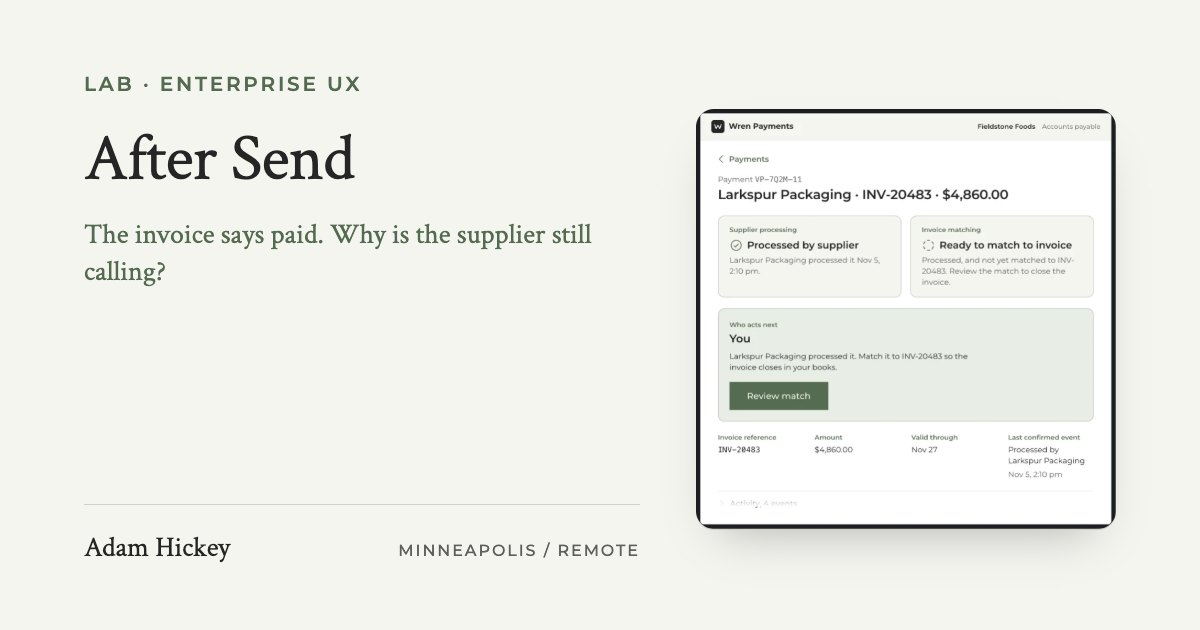
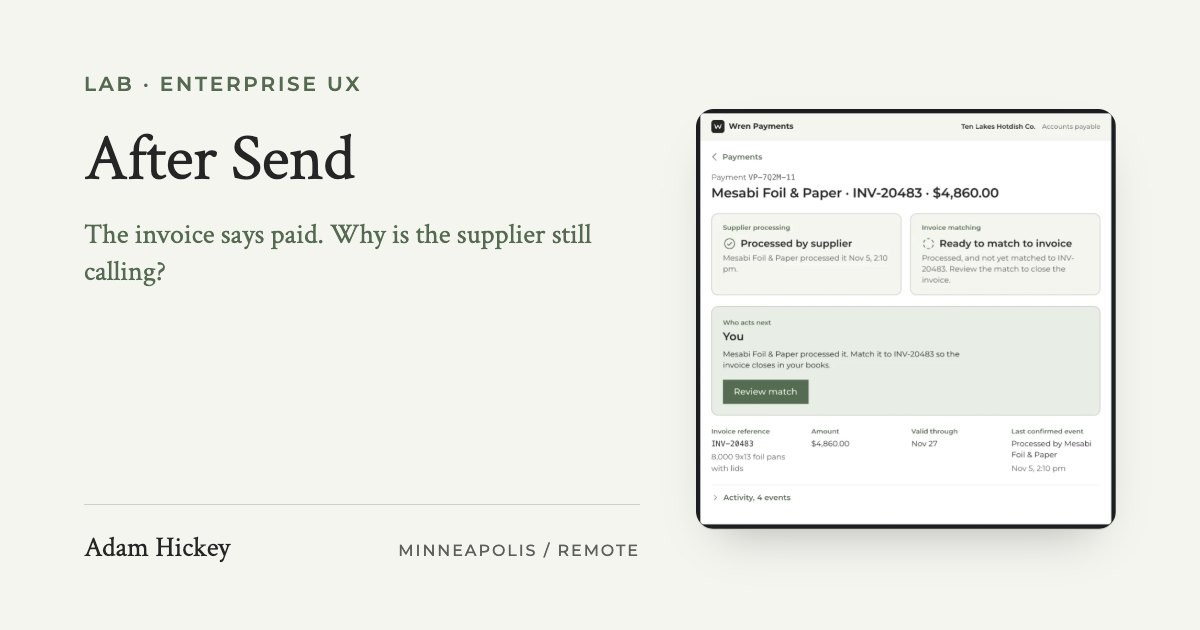
After Send: a Fridley hotdish maker, a Hibbing foil supplier, and 8,000 pans
The scenario read flat: Fieldstone Foods and Larkspur Packaging were
placeholders, and INV-20483 was $4,860 of nothing, so a reader had no
reason to care which side was right. Now Ten Lakes Hotdish Co., a frozen
hotdish maker in Fridley, owes Mesabi Foil & Paper, up in Hibbing, for
8,000 9x13 foil pans with lids, and the call says why it matters: the next
pallet ships Friday. The other four payments become the recipe (Valley Tot
Co., Sauk Centre Canning Co., Northshore Freight Lines, and a smaller pan
order), so the list reads as a hotdish being assembled without a joke
being written. Every company is still made up; each name was searched
before use.

The quirk is in the nouns. The three facts, the two records, the
decisions, and the test are the same words. One addition: each payment
carries `item`, what the invoice is for, shown under the reference on the
record and the notice.

Measured scoped on lab/after-send.html against origin/main with each
tree's own scripts: resting 3038 -> 3047, the item line on the nine loads
that draw a record's or the notice's grid (the two reviewing states hide
the grid, the list and the write-up's pair never draw it); state rules
376 either side, no stylesheet changed. readtime holds at 6 min (5.89).
wren-test.mjs passes, 31 assertions. The share card and its record
capture are re-rendered with the new names.

diff --git a/lab/after-send.html b/lab/after-send.html
@@ -19,7 +19,7 @@
   <meta property="og:url" content="https://adamhickey.com/lab/after-send.html" />
   <meta property="og:title" content="Tracking a Virtual Payment: an Accounts Payable Concept | Adam Hickey" />
   <meta property="og:description" content="An independent accounts payable concept on simulated data, not affiliated with any bank: the invoice says paid, the supplier calls anyway, and the payment record says what has happened, who acts next, and what to do." />
-  <meta property="og:image" content="https://adamhickey.com/img/og/after-send.jpg?v=5" />
+  <meta property="og:image" content="https://adamhickey.com/img/og/after-send.jpg?v=6" />
   <meta property="og:image:width" content="1200" />
   <meta property="og:image:height" content="630" />
   <meta name="twitter:card" content="summary_large_image" />
@@ -40,7 +40,7 @@
           "description": "An independent accounts payable concept on simulated data, not affiliated with any bank: the invoice says paid, the supplier calls anyway, and the payment record says what has happened, who acts next, and what to do.",
           "url": "https://adamhickey.com/lab/after-send.html",
           "mainEntityOfPage": "https://adamhickey.com/lab/after-send.html",
-          "image": "https://adamhickey.com/img/og/after-send.jpg?v=5",
+          "image": "https://adamhickey.com/img/og/after-send.jpg?v=6",
           "datePublished": "2026-11-06",
           "dateModified": "2026-11-07",
           "author": {
@@ -113,7 +113,7 @@
   <script src="../read-aloud.js?v=4" defer></script>
   <!-- The prototype. Deferred, no dependencies, no build step; the
        payments and their events are the objects at the top of the file. -->
-  <script src="wren.js?v=9" defer></script>
+  <script src="wren.js?v=10" defer></script>
   <script src="after-send-story.js?v=1" defer></script>
   <!-- One switch, thrown before first paint because after-send-story.js is
        deferred, and taken back at DOMContentLoaded if that file never ran:
@@ -273,13 +273,19 @@
          Since 2026-11-06 (Adam: use the empty right side) the three facts are
          the figure beside the scene: one word coming apart. The list is still
          a list, with the marks the prototype gives those statuses. Its lines
-         draw once (after-send-story.js); the words are always there. -->
+         draw once (after-send-story.js); the words are always there.
+         SINCE LATER ON 2026-11-07 (Adam: the scenario was boring) the buyer
+         is a Fridley hotdish maker and the supplier a Hibbing foil company,
+         and the invoice is for pans. The quirk is in the nouns and one clause
+         of the call (the next pallet ships Friday), so a reader has a reason
+         to care which side is right; the three facts and the two records are
+         the same words. -->
     <section class="case-section case-overview build-chapter ground-white" id="the-problem">
       <div class="container case-narrow">
         <div class="as-split">
           <div class="writing-measure">
-            <h2>Larkspur calls, and the screen settles one fact of three</h2>
-            <p>Thursday afternoon. Larkspur Packaging, the supplier, calls Fieldstone Foods, the buyer: <strong>&ldquo;Our records still show INV-20483 as unpaid. Can you check the payment?&rdquo;</strong> The specialist opens it. Sent October 28, marked paid.</p>
+            <h2>Mesabi calls, and the screen settles one fact of three</h2>
+            <p>Thursday afternoon in Fridley. Mesabi Foil &amp; Paper, the supplier up in Hibbing, calls Ten Lakes Hotdish Co., the buyer: <strong>&ldquo;Our records still show INV-20483 as unpaid, and your next pallet of pans ships Friday. Can you check the payment?&rdquo;</strong> The specialist opens it. Sent October 28, marked paid.</p>
             <p>&ldquo;Paid&rdquo; is standing in for three facts. I think <strong>the design problem is the hierarchy</strong>: keep them apart, say who moves next, and give the specialist a line for the phone.</p>
           </div>
           <figure class="as-paid">
@@ -289,9 +295,9 @@
             </div>
             <svg class="as-paid-lines" viewBox="0 0 48 100" preserveAspectRatio="none" aria-hidden="true" focusable="false"><path pathLength="1" d="M0 50C24 50 24 16.7 48 16.7"/><path pathLength="1" d="M0 50H48"/><path pathLength="1" d="M0 50C24 50 24 83.3 48 83.3"/></svg>
             <ul class="as-paid-facts">
-              <li><svg class="as-paid-mark" viewBox="0 0 256 256" fill="currentColor" aria-hidden="true" focusable="false"><path d="M173.66,98.34a8,8,0,0,1,0,11.32l-56,56a8,8,0,0,1-11.32,0l-24-24a8,8,0,0,1,11.32-11.32L112,148.69l50.34-50.35A8,8,0,0,1,173.66,98.34ZM232,128A104,104,0,1,1,128,24,104.11,104.11,0,0,1,232,128Zm-16,0a88,88,0,1,0-88,88A88.1,88.1,0,0,0,216,128Z"/></svg><span><strong>The card was issued.</strong> Larkspur got a virtual-card notice. The only fact the status shows.</span></li>
+              <li><svg class="as-paid-mark" viewBox="0 0 256 256" fill="currentColor" aria-hidden="true" focusable="false"><path d="M173.66,98.34a8,8,0,0,1,0,11.32l-56,56a8,8,0,0,1-11.32,0l-24-24a8,8,0,0,1,11.32-11.32L112,148.69l50.34-50.35A8,8,0,0,1,173.66,98.34ZM232,128A104,104,0,1,1,128,24,104.11,104.11,0,0,1,232,128Zm-16,0a88,88,0,1,0-88,88A88.1,88.1,0,0,0,216,128Z"/></svg><span><strong>The card was issued.</strong> Mesabi got a virtual-card notice. The only fact the status shows.</span></li>
               <li><svg class="as-paid-mark" viewBox="0 0 256 256" fill="currentColor" aria-hidden="true" focusable="false"><path d="M128,24A104,104,0,1,0,232,128,104.11,104.11,0,0,0,128,24Zm0,192a88,88,0,1,1,88-88A88.1,88.1,0,0,1,128,216Zm64-88a8,8,0,0,1-8,8H128a8,8,0,0,1-8-8V72a8,8,0,0,1,16,0v48h48A8,8,0,0,1,192,128Z"/></svg><span><strong>The supplier charged the card.</strong> Not yet. The product calls this processing, and no event says it happened.</span></li>
-              <li><svg class="as-paid-mark" viewBox="0 0 256 256" fill="currentColor" aria-hidden="true" focusable="false"><path d="M96.26,37.05A8,8,0,0,1,102,27.29a104.11,104.11,0,0,1,52,0,8,8,0,0,1-2,15.75,8.15,8.15,0,0,1-2-.26,88.09,88.09,0,0,0-44,0A8,8,0,0,1,96.26,37.05ZM53.79,55.14a104.05,104.05,0,0,0-26,45,8,8,0,0,0,15.42,4.27,88,88,0,0,1,22-38.09A8,8,0,0,0,53.79,55.14ZM43.21,151.55a8,8,0,1,0-15.42,4.28,104.12,104.12,0,0,0,26,45,8,8,0,0,0,11.41-11.22A88.14,88.14,0,0,1,43.21,151.55ZM150,213.22a88,88,0,0,1-44,0,8,8,0,1,0-4,15.49,104.11,104.11,0,0,0,52,0,8,8,0,0,0-4-15.49ZM222.65,146a8,8,0,0,0-9.85,5.58,87.91,87.91,0,0,1-22,38.08,8,8,0,1,0,11.42,11.21,104,104,0,0,0,26-45A8,8,0,0,0,222.65,146Zm-9.86-41.54a8,8,0,0,0,15.42-4.28,104,104,0,0,0-26-45,8,8,0,1,0-11.41,11.22A88,88,0,0,1,212.79,104.45Z"/></svg><span><strong>The buyer matched the charge to the invoice.</strong> Not yet, in Fieldstone&rsquo;s books, so INV-20483 is still open.</span></li>
+              <li><svg class="as-paid-mark" viewBox="0 0 256 256" fill="currentColor" aria-hidden="true" focusable="false"><path d="M96.26,37.05A8,8,0,0,1,102,27.29a104.11,104.11,0,0,1,52,0,8,8,0,0,1-2,15.75,8.15,8.15,0,0,1-2-.26,88.09,88.09,0,0,0-44,0A8,8,0,0,1,96.26,37.05ZM53.79,55.14a104.05,104.05,0,0,0-26,45,8,8,0,0,0,15.42,4.27,88,88,0,0,1,22-38.09A8,8,0,0,0,53.79,55.14ZM43.21,151.55a8,8,0,1,0-15.42,4.28,104.12,104.12,0,0,0,26,45,8,8,0,0,0,11.41-11.22A88.14,88.14,0,0,1,43.21,151.55ZM150,213.22a88,88,0,0,1-44,0,8,8,0,1,0-4,15.49,104.11,104.11,0,0,0,52,0,8,8,0,0,0-4-15.49ZM222.65,146a8,8,0,0,0-9.85,5.58,87.91,87.91,0,0,1-22,38.08,8,8,0,1,0,11.42,11.21,104,104,0,0,0,26-45A8,8,0,0,0,222.65,146Zm-9.86-41.54a8,8,0,0,0,15.42-4.28,104,104,0,0,0-26-45,8,8,0,1,0-11.41,11.22A88,88,0,0,1,212.79,104.45Z"/></svg><span><strong>The buyer matched the charge to the invoice.</strong> Not yet, in Ten Lakes&rsquo; books, so INV-20483 is still open.</span></li>
             </ul>
           </figure>
         </div>
@@ -319,7 +325,7 @@
               <div class="as-how-text">
                 <p class="as-how-who">Supplier</p>
                 <p class="as-how-name">Sends the invoice</p>
-                <p class="as-how-what"><span class="as-how-ref">INV-20483</span>, for $4,860.</p>
+                <p class="as-how-what"><span class="as-how-ref">INV-20483</span>, $4,860 for 8,000 foil pans with lids.</p>
               </div>
             </li>
             <li class="as-how-step as-how-step--buyer">
@@ -383,15 +389,15 @@
           <li data-wren-step="5"><span class="as-step-n" aria-hidden="true">5</span><span class="as-step-name">Explore an expired payment</span><span class="visually-hidden" data-step-said></span></li>
         </ol>
         <div class="as-guide" data-wren-guide>
-          <p class="as-view" data-wren-view>Demo view: Fieldstone Foods, the buyer</p>
-          <p class="as-hint" data-wren-hint>Larkspur Packaging, the supplier, calls: &ldquo;Our records show <span class="as-ref">INV-20483</span> as unpaid. Can you check it?&rdquo; Your screen says paid.</p>
+          <p class="as-view" data-wren-view>Demo view: Ten Lakes Hotdish Co., the buyer</p>
+          <p class="as-hint" data-wren-hint>Mesabi Foil &amp; Paper, the supplier, calls: &ldquo;Our records show <span class="as-ref">INV-20483</span> as unpaid. Can you check it?&rdquo; Your screen says paid.</p>
           <span class="as-guide-next" data-wren-next></span>
         </div>
         <div class="wr-frame">
           <div class="wr-app">
             <div class="wr-bar">
               <p class="wr-brand"><svg class="wr-brand-icon" viewBox="0 0 32 32" aria-hidden="true" focusable="false"><rect width="32" height="32" rx="7"/><path d="M8 11l3.5 10 4.5-8 4.5 8L24 11"/></svg>Wren Payments</p>
-              <p class="wr-chrome" data-wren-chrome><span class="wr-org">Fieldstone Foods</span><span class="wr-role">Accounts payable</span></p>
+              <p class="wr-chrome" data-wren-chrome><span class="wr-org">Ten Lakes Hotdish Co.</span><span class="wr-role">Accounts payable</span></p>
             </div>
             <div class="wr-stage" data-wren-stage data-screen="list">
               <noscript>
@@ -405,7 +411,7 @@
             <p class="visually-hidden" role="status" data-wren-status></p>
           </div>
         </div>
-        <p class="as-demo-note">Simulated: &ldquo;Process this payment&rdquo; charges nothing. Fieldstone Foods is the buyer, Larkspur Packaging the supplier, and both are made up.</p>
+        <p class="as-demo-note">Simulated: &ldquo;Process this payment&rdquo; charges nothing. Ten Lakes Hotdish Co. is the buyer, Mesabi Foil &amp; Paper the supplier, and both are made up.</p>
       </div>
     </section>
 
@@ -549,7 +555,7 @@
       <div class="container case-narrow">
         <div class="writing-measure">
           <h2>From a log to an answer, and why that order is worth testing</h2>
-          <p>Larkspur is on the phone. Both records come from the same events; v2 adds the matching status, who acts next, and what to say. Answer from each.</p>
+          <p>Mesabi is on the phone. Both records come from the same events; v2 adds the matching status, who acts next, and what to say. Answer from each.</p>
         </div>
         <div class="as-wires">
           <figure class="as-figure as-wire">
@@ -560,7 +566,7 @@
                 <span class="as-wire-label">Activity</span>
                 <ol class="as-wire-events">
                   <li><time>Oct 28, 9:14 am</time><span>Payment issued</span></li>
-                  <li><time>Oct 28, 9:15 am</time><span>Notice sent to ar@larkspur.example</span></li>
+                  <li><time>Oct 28, 9:15 am</time><span>Notice sent to ar@mesabifoil.example</span></li>
                   <li><time>Oct 28, 9:16 am</time><span>Notice delivered</span></li>
                 </ol>
               </div>
@@ -582,22 +588,22 @@
           <figure class="as-figure as-wire as-wire--proposed">
             <figcaption><p class="as-kicker">v2 &middot; status first, the working direction</p><p class="as-title">The record as an answer</p></figcaption>
             <div class="as-wire-screen">
-              <div class="as-wire-bar">Larkspur Packaging &middot; INV-20483 &middot; $4,860.00</div>
+              <div class="as-wire-bar">Mesabi Foil &amp; Paper &middot; INV-20483 &middot; $4,860.00</div>
               <div class="as-wire-row as-wire-row--facts">
                 <span class="as-wire-cell as-wire-cell--fact"><span class="as-wire-label">Supplier processing</span>Not processed yet</span>
                 <span class="as-wire-cell as-wire-cell--fact"><span class="as-wire-label">Invoice matching</span>Not yet</span>
               </div>
               <div class="as-wire-block as-wire-block--next">
                 <span class="as-wire-label">Who acts next</span>
-                <span class="as-wire-who">Larkspur Packaging</span>
-                <span>Tell them: the card hasn&rsquo;t been charged. Notice went to ar@larkspur.example. Later: follow up Nov 20 if it&rsquo;s still unprocessed. The card expires Nov 27.</span>
+                <span class="as-wire-who">Mesabi Foil &amp; Paper</span>
+                <span>Tell them: the card hasn&rsquo;t been charged. Notice went to ar@mesabifoil.example. Later: follow up Nov 20 if it&rsquo;s still unprocessed. The card expires Nov 27.</span>
               </div>
             </div>
             <div class="as-answers-slot">
               <button type="button" class="btn btn-ghost-light as-show" data-show-answers>See its answers</button>
               <dl class="as-answers">
               <div><dt>Has the supplier charged the card?</dt><dd>No charge posted as of Nov 5, 2:05 pm, when the record last read the events.</dd></div>
-              <div><dt>What do I tell them?</dt><dd>The card hasn&rsquo;t been charged. The notice went to ar@larkspur.example; is that the right inbox?</dd></div>
+              <div><dt>What do I tell them?</dt><dd>The card hasn&rsquo;t been charged. The notice went to ar@mesabifoil.example; is that the right inbox?</dd></div>
               <div><dt>Do I follow up?</dt><dd>Not yet. On Nov 20, if it&rsquo;s still unprocessed.</dd></div>
             </dl>
             </div>

diff --git a/lab/wren.js b/lab/wren.js
@@ -4,9 +4,13 @@
    else, where it runs under the hero.
 
    EVERYTHING HERE IS SIMULATED, and the page says so before anyone presses.
-   Wren Payments is a made-up product, Fieldstone Foods a made-up buyer,
-   Larkspur Packaging a made-up supplier, and every reference below is
-   synthetic. No card number, no account, no network, no file, no sign-in.
+   Wren Payments is a made-up product, Ten Lakes Hotdish Co. a made-up buyer,
+   Mesabi Foil & Paper a made-up supplier, and every reference below is
+   synthetic. Since 2026-11-07 (Adam: the scenario was boring) the buyer
+   makes frozen hotdish in Fridley and the supplier sells it foil pans from
+   Hibbing, so the list reads as the recipe: tots, soup, pans, and the
+   freight. The quirk lives in the nouns and the item line of each invoice;
+   the events, the statuses, and the words of the story did not move. No card number, no account, no network, no file, no sign-in.
    "Process this payment" charges nothing; it adds an event to a list in
    this file. The public sources the page cites establish the domain
    (buyer-to-supplier virtual payments, remittance, reconciliation); the
@@ -72,47 +76,49 @@
 
   var TODAY = 'Nov 5';               /* the demo's clock, fixed */
   var PRODUCT = 'Wren Payments';
-  var BUYER = { name: 'Fieldstone Foods', team: 'Accounts payable' };
+  var BUYER = { name: 'Ten Lakes Hotdish Co.', team: 'Accounts payable' };
 
   /* The one payment the walkthrough follows, and four more so the list can
-     be searched and filtered. Amounts in cents, so nothing is rounded. */
+     be searched and filtered. Amounts in cents, so nothing is rounded. `item`
+     is what the invoice is for, in the supplier's words, shown under the
+     reference on the record and the notice. */
   var BASE = [
-    { id: 'larkspur-20483', ref: 'VP-7Q2M-11', supplier: 'Larkspur Packaging', invoice: 'INV-20483', amount: 486000, sent: 'Oct 28', validThrough: 'Nov 27', followUp: 'Nov 20', noticeTo: 'ar@larkspur.example',
+    { id: 'mesabi-20483', ref: 'VP-7Q2M-11', supplier: 'Mesabi Foil & Paper', invoice: 'INV-20483', item: '8,000 9x13 foil pans with lids', amount: 486000, sent: 'Oct 28', validThrough: 'Nov 27', followUp: 'Nov 20', noticeTo: 'ar@mesabifoil.example',
       events: [
         { at: 'Oct 28, 9:14 am', kind: 'issued', what: 'Payment issued for INV-20483', by: BUYER.name + ' accounts payable' },
-        { at: 'Oct 28, 9:15 am', kind: 'notice', what: 'Payment notice sent to Larkspur Packaging', by: PRODUCT },
-        { at: 'Oct 28, 9:16 am', kind: 'delivered', what: 'Notice delivered to Larkspur’s accounts receivable inbox', by: PRODUCT }
+        { at: 'Oct 28, 9:15 am', kind: 'notice', what: 'Payment notice sent to Mesabi Foil & Paper', by: PRODUCT },
+        { at: 'Oct 28, 9:16 am', kind: 'delivered', what: 'Notice delivered to Mesabi’s accounts receivable inbox', by: PRODUCT }
       ] },
-    { id: 'cedar-11920', ref: 'VP-3H8K-02', supplier: 'Cedar Ridge Produce', invoice: 'INV-11920', amount: 221550, sent: 'Oct 22', validThrough: 'Nov 21',
+    { id: 'valleytot-11920', ref: 'VP-3H8K-02', supplier: 'Valley Tot Co.', invoice: 'INV-11920', item: '1,500 lb frozen tots', amount: 221550, sent: 'Oct 22', validThrough: 'Nov 21',
       events: [
         { at: 'Oct 22, 10:02 am', kind: 'issued', what: 'Payment issued for INV-11920', by: BUYER.name + ' accounts payable' },
-        { at: 'Oct 22, 10:03 am', kind: 'notice', what: 'Payment notice sent to Cedar Ridge Produce', by: PRODUCT },
-        { at: 'Oct 24, 8:40 am', kind: 'processed', what: 'Processed by Cedar Ridge Produce', by: 'Cedar Ridge Produce' },
+        { at: 'Oct 22, 10:03 am', kind: 'notice', what: 'Payment notice sent to Valley Tot Co.', by: PRODUCT },
+        { at: 'Oct 24, 8:40 am', kind: 'processed', what: 'Processed by Valley Tot Co.', by: 'Valley Tot Co.' },
         { at: 'Oct 24, 1:15 pm', kind: 'matched', what: 'Matched to INV-11920', by: BUYER.name + ' accounts payable' }
       ] },
-    { id: 'bright-30077', ref: 'VP-9C4D-07', supplier: 'Bright Harbor Logistics', invoice: 'INV-30077', amount: 1240000, processedAmount: 1204000, sent: 'Oct 30', validThrough: 'Nov 29',
+    { id: 'northshore-30077', ref: 'VP-9C4D-07', supplier: 'Northshore Freight Lines', invoice: 'INV-30077', item: 'Freezer runs, Fridley to Fargo and Des Moines, October', amount: 1240000, processedAmount: 1204000, sent: 'Oct 30', validThrough: 'Nov 29',
       events: [
         { at: 'Oct 30, 3:48 pm', kind: 'issued', what: 'Payment issued for INV-30077', by: BUYER.name + ' accounts payable' },
-        { at: 'Oct 30, 3:49 pm', kind: 'notice', what: 'Payment notice sent to Bright Harbor Logistics', by: PRODUCT },
-        { at: 'Nov 3, 11:20 am', kind: 'processed', what: 'Processed by Bright Harbor Logistics', by: 'Bright Harbor Logistics' }
+        { at: 'Oct 30, 3:49 pm', kind: 'notice', what: 'Payment notice sent to Northshore Freight Lines', by: PRODUCT },
+        { at: 'Nov 3, 11:20 am', kind: 'processed', what: 'Processed by Northshore Freight Lines', by: 'Northshore Freight Lines' }
       ] },
-    { id: 'tamsin-0921', ref: 'VP-5N1R-04', supplier: 'Tamsin Office Supply', invoice: 'INV-0921', amount: 31875, sent: 'Sep 30', validThrough: 'Oct 30',
+    { id: 'saukcentre-0921', ref: 'VP-5N1R-04', supplier: 'Sauk Centre Canning Co.', invoice: 'INV-0921', item: '25 cases cream of mushroom soup', amount: 31875, sent: 'Sep 30', validThrough: 'Oct 30',
       events: [
         { at: 'Sep 30, 2:05 pm', kind: 'issued', what: 'Payment issued for INV-0921', by: BUYER.name + ' accounts payable' },
-        { at: 'Sep 30, 2:06 pm', kind: 'notice', what: 'Payment notice sent to Tamsin Office Supply', by: PRODUCT },
+        { at: 'Sep 30, 2:06 pm', kind: 'notice', what: 'Payment notice sent to Sauk Centre Canning Co.', by: PRODUCT },
         { at: 'Oct 31, 12:00 am', kind: 'expired', what: 'Validity date passed. The payment expired without being processed.', by: PRODUCT }
       ] },
-    { id: 'larkspur-20391', ref: 'VP-2W6T-09', supplier: 'Larkspur Packaging', invoice: 'INV-20391', amount: 114000, sent: 'Oct 9', validThrough: 'Nov 8',
+    { id: 'mesabi-20391', ref: 'VP-2W6T-09', supplier: 'Mesabi Foil & Paper', invoice: 'INV-20391', item: '3,000 half-size foil pans', amount: 114000, sent: 'Oct 9', validThrough: 'Nov 8',
       events: [
         { at: 'Oct 9, 9:30 am', kind: 'issued', what: 'Payment issued for INV-20391', by: BUYER.name + ' accounts payable' },
-        { at: 'Oct 9, 9:31 am', kind: 'notice', what: 'Payment notice sent to Larkspur Packaging', by: PRODUCT },
-        { at: 'Oct 12, 4:12 pm', kind: 'processed', what: 'Processed by Larkspur Packaging', by: 'Larkspur Packaging' },
+        { at: 'Oct 9, 9:31 am', kind: 'notice', what: 'Payment notice sent to Mesabi Foil & Paper', by: PRODUCT },
+        { at: 'Oct 12, 4:12 pm', kind: 'processed', what: 'Processed by Mesabi Foil & Paper', by: 'Mesabi Foil & Paper' },
         { at: 'Oct 13, 9:05 am', kind: 'matched', what: 'Matched to INV-20391', by: BUYER.name + ' accounts payable' }
       ] }
   ];
-  var FOLLOWED = 'larkspur-20483';
+  var FOLLOWED = 'mesabi-20483';
   var SEARCHED = 'INV-20483';        /* what the supplier on the phone gave */
-  var HINT_START = 'Larkspur Packaging, the supplier, calls: “Our records show INV-20483 as unpaid. Can you check it?” Your screen says paid.';
+  var HINT_START = 'Mesabi Foil & Paper, the supplier, calls: “Our records show INV-20483 as unpaid. Can you check it?” Your screen says paid.';
 
   /* The exception: the same payment, its validity date a day before the
      demo's today, and no processing event ever arrived. */
@@ -318,7 +324,7 @@
        the same reference and amount, so the row steps aside while it is open
        and the buttons stay inside the window. */
     if (!(state.reviewing && pr === 'processed' && m === 'unmatched')) s += '<dl class="wr-grid">' +
-      '<div><dt>Invoice reference</dt><dd><span class="wr-ref">' + p.invoice + '</span></dd></div>' +
+      '<div><dt>Invoice reference</dt><dd><span class="wr-ref">' + p.invoice + '</span><span class="wr-when">' + esc(p.item) + '</span></dd></div>' +
       '<div><dt>Amount</dt><dd>' + money(p.amount) + '</dd></div>' +
       '<div><dt>Valid through</dt><dd>' + validThrough(p) + (pr === 'expired' ? ' <span class="wr-muted">(passed)</span>' : '') + '</dd></div>' +
       '<div><dt>Last confirmed event</dt><dd>' + esc(lastEv.what) + '<span class="wr-when">' + lastEv.at + '</span></dd></div>' +
@@ -454,7 +460,7 @@
       '</header>' +
       '<dl class="wr-grid wr-grid--notice">' +
         '<div><dt>From</dt><dd>' + BUYER.name + '</dd></div>' +
-        '<div><dt>Invoice reference</dt><dd><span class="wr-ref">' + p.invoice + '</span></dd></div>' +
+        '<div><dt>Invoice reference</dt><dd><span class="wr-ref">' + p.invoice + '</span><span class="wr-when">' + esc(p.item) + '</span></dd></div>' +
         '<div><dt>Amount</dt><dd>' + money(p.amount) + '</dd></div>' +
         '<div><dt>Valid through</dt><dd>' + validThrough(p) + '</dd></div>' +
         '<div><dt>Payment reference</dt><dd><span class="wr-ref">' + p.ref + '</span></dd></div>' +
@@ -499,7 +505,7 @@
     var other = state.screen !== 'list' && state.open && state.open !== FOLLOWED;
     var otherLine = 'Another payment on the list. The story follows ' + SEARCHED + '.';
     var otherNext = TO_FOLLOWED;
-    if (other && state.open === 'bright-30077') {
+    if (other && state.open === 'northshore-30077') {
       otherLine = state.reviewing
         ? 'The two amounts don’t agree, so there’s no Confirm match. The story follows ' + SEARCHED + '.'
         : 'Processed for less than the invoice. Review the match to see the check hold.';
@@ -514,7 +520,7 @@
         'An alternate ending, not what came next: the same card, expiring Nov 4 instead of Nov 27, never charged. Your move.' };
     }
     if (m === 'matched') {
-      return { now: 5, done: 4, next: other ? otherNext : TO_EXPIRED, hint: other ? otherLine : SEARCHED + ' is closed, and each fact has its own date. Last, a different ending: what if Larkspur never charges the card?' };
+      return { now: 5, done: 4, next: other ? otherNext : TO_EXPIRED, hint: other ? otherLine : SEARCHED + ' is closed, and each fact has its own date. Last, a different ending: what if Mesabi never charges the card?' };
     }
     /* On the list, the search comes first: the row is offered once it is the
        one row showing, and searched for if it is among others or gone. */
@@ -522,13 +528,13 @@
     var onList = rows.length === 1 && rows[0].id === FOLLOWED ? TO_OPEN : TO_SEARCH;
     if (pr === 'processed') {
       if (other) return { now: 4, done: 3, next: otherNext, hint: otherLine };
-      if (state.screen === 'notice') return { now: 3, done: 2, next: TO_BUYER, hint: 'Processed: the card is charged. That’s all Larkspur has to do, so back to the buyer’s record of the same payment.' };
+      if (state.screen === 'notice') return { now: 3, done: 2, next: TO_BUYER, hint: 'Processed: the card is charged. That’s all Mesabi has to do, so back to the buyer’s record of the same payment.' };
       if (state.screen === 'list') return { now: 4, done: 3, next: onList, hint: 'Find ' + SEARCHED + ' again to close the loop.' };
-      return { now: 4, done: 3, next: state.reviewing ? TO_CONFIRM : TO_REVIEW, hint: state.reviewing ? 'The invoice and the payment, side by side. The supplier and the amount agree.' : 'You’re Fieldstone again. Larkspur charged the card, so the record reads processed and ready to match. Close the invoice.' };
+      return { now: 4, done: 3, next: state.reviewing ? TO_CONFIRM : TO_REVIEW, hint: state.reviewing ? 'The invoice and the payment, side by side. The supplier and the amount agree.' : 'You’re Ten Lakes again. Mesabi charged the card, so the record reads processed and ready to match. Close the invoice.' };
     }
     if (other) return { now: 1, done: 0, next: otherNext, hint: otherLine };
-    if (state.screen === 'notice') return { now: 3, done: 2, next: TO_PROCESS, hint: 'Now you’re Larkspur, the supplier. The notice shows only what Fieldstone shared, and one thing to do: charge the card.' };
-    if (state.screen === 'detail') return { now: 2, done: 1, next: TO_SUPPLIER, hint: 'Issued, not charged. The record says what to tell Larkspur now, what to do later, and that Larkspur acts next.' };
+    if (state.screen === 'notice') return { now: 3, done: 2, next: TO_PROCESS, hint: 'Now you’re Mesabi, the supplier. The notice shows only what Ten Lakes shared, and one thing to do: charge the card.' };
+    if (state.screen === 'detail') return { now: 2, done: 1, next: TO_SUPPLIER, hint: 'Issued, not charged. The record says what to tell Mesabi now, what to do later, and that Mesabi acts next.' };
     return { now: 1, done: 0, next: onList, hint: onList === TO_OPEN
       ? 'One payment, and the list says it isn’t processed yet. Open it to see where it stands.'
       : HINT_START };
@@ -726,7 +732,7 @@
       state = fresh('expired');
       state.open = FOLLOWED;
       state.screen = 'detail';
-      render({ focus: '.wr-title', announce: 'An alternate ending. The same payment to Larkspur Packaging, its card expired Nov 4 with no charge.' });
+      render({ focus: '.wr-title', announce: 'An alternate ending. The same payment to Mesabi Foil & Paper, its card expired Nov 4 with no charge.' });
       return;
     }
     if (t.hasAttribute('data-role')) {

diff --git a/index.html b/index.html
@@ -1094,7 +1094,7 @@
           <div class="case-card case-card--lab reveal">
             <a class="case-thumb case-thumb--still" href="lab/after-send.html" aria-label="Read the After Send case study: the invoice says paid, and the supplier is still calling">
               <div class="explore-still explore-still--handoff">
-                <p class="handoff-record"><span>INV-20483<span class="handoff-supplier"> &middot; Larkspur Packaging</span></span><span class="handoff-paid">Marked paid</span></p>
+                <p class="handoff-record"><span>INV-20483<span class="handoff-supplier"> &middot; Mesabi Foil &amp; Paper</span></span><span class="handoff-paid">Marked paid</span></p>
                 <p class="explore-still-title">&ldquo;Paid&rdquo; hides three facts. <span class="explore-still-ask">Next: confirm the supplier got the notice.</span></p>
                 <ol class="handoff-rail">
                   <li class="handoff-step--done">

diff --git a/lab/index.html b/lab/index.html
@@ -279,7 +279,7 @@
           <li class="writing-item">
             <a class="writing-link" href="after-send.html">
               <div class="explore-still explore-still--handoff writing-card" aria-hidden="true">
-                <p class="handoff-record"><span>INV-20483<span class="handoff-supplier"> &middot; Larkspur Packaging</span></span><span class="handoff-paid">Marked paid</span></p>
+                <p class="handoff-record"><span>INV-20483<span class="handoff-supplier"> &middot; Mesabi Foil &amp; Paper</span></span><span class="handoff-paid">Marked paid</span></p>
                 <p class="explore-still-title">&ldquo;Paid&rdquo; hides three facts. <span class="explore-still-ask">Next: confirm the supplier got the notice.</span></p>
                 <ol class="handoff-rail">
                   <li class="handoff-step--done">

diff --git a/README.md b/README.md
@@ -131,7 +131,7 @@ the archive so that it holds everything staging ever had.
 | `case-study/service-map.css` | The USDA case study's service map, moved out of the old base stylesheet |
 | `how-i-work.html`, `engagement/*.html` | How I work, one page since 2026-10-29: the four parts of the job, each the situation, the moves, and the account that shows it. The four pages it replaced under `engagement/` are forwarding notes now, each to its own section |
 | `prototype/dispatch-cockpit.html`, `prototype/dispatch-cockpit.{css,js}` | The dispatch cockpit prototype: a self-directed, interactive page on synthetic data, with its own stylesheet and script and the fleet as one object at the top of the script. `scripts/cockpit.mjs` captures the first screen for the share card, and `scripts/cockpit-shots.mjs` the four remaining stills: the hero's close call, the two frames decision 02 sits beside, and the wide window the HOMEPAGE's prototype card prints. The page has one other mode: `?embed` hands the document `data-embed` and the stylesheet takes off the nav, the hero, the two chapters, and the footer, leaving the cockpit and its own device chrome off with them. That is what stands in the tablet the homepage card opens, and it is a flag on this page rather than a second bare file so there is one copy of the cockpit's markup, one address in the sitemap, and no public URL with no way back to the site |
-| `lab/wren.{css,js}` | The After Send prototype, in its write-up under the hero since 2026-11-06: one virtual payment at a desk's width, followed from a buyer's payments list to a payment record, to the supplier's notice, and back to the same record, on simulated data written at the top of the script. Wren Payments is the made-up product, Fieldstone Foods the made-up buyer, Larkspur Packaging the made-up supplier, and every reference is synthetic. Supplier processing and invoice matching are two fields derived from one list of events, so the buyer's record and the supplier's notice cannot disagree; Process and Confirm match are drawn only while they apply, and a match never touches the processing event. Every screen after the list is drawn on a press, so `scripts/lib/reachable.mjs` registers eleven states for it, and a twelfth for the two records' answers in the write-up; `scripts/wren-test.mjs` walks the handoff, asserting what each screen says; and `scripts/wren-shots.mjs` takes its record screen for the share card. The lab and homepage card is the page's own markup, in `thumb-loop.css` ("The handoff"), since later on 2026-11-06. No card number, account, network, file, or sign-in |
+| `lab/wren.{css,js}` | The After Send prototype, in its write-up under the hero since 2026-11-06: one virtual payment at a desk's width, followed from a buyer's payments list to a payment record, to the supplier's notice, and back to the same record, on simulated data written at the top of the script. Wren Payments is the made-up product, Ten Lakes Hotdish Co. the made-up buyer (a frozen hotdish maker in Fridley), Mesabi Foil & Paper the made-up supplier (its foil pans, from Hibbing), and every reference is synthetic; since 2026-11-07 every row on the list is a Minnesota noun, so the list reads as the recipe and a reader knows what the money is for. Supplier processing and invoice matching are two fields derived from one list of events, so the buyer's record and the supplier's notice cannot disagree; Process and Confirm match are drawn only while they apply, and a match never touches the processing event. Every screen after the list is drawn on a press, so `scripts/lib/reachable.mjs` registers eleven states for it, and a twelfth for the two records' answers in the write-up; `scripts/wren-test.mjs` walks the handoff, asserting what each screen says; and `scripts/wren-shots.mjs` takes its record screen for the share card. The lab and homepage card is the page's own markup, in `thumb-loop.css` ("The handoff"), since later on 2026-11-06. No card number, account, network, file, or sign-in |
 | `lab/after-send.html`, `lab/after-send.css` | After Send, since 2026-11-06: the question and four facts, the call in the supplier's own words with the three facts "paid" stands in for, the payment flow with the virtual card explained, the prototype at the container's width with a five-step rail, a Demo view line, and the demo's controls outside the window, three decisions as The Shortlist's ledger (decisions.css) with the reason behind each and a line drawing of it and three in support as a list, the experience architecture drawn in HTML (four screens, the invoice reference under each, the two events marked where they happen, and where each screen can fail), the same events as two records in real words (v1 a log, v2 a summary with next-step guidance) with the risk, the proposed study, and that there are no findings, a reference note on three public sources, and a close. The order and the opening are the review of 2026-11-07: a reader had to understand payments before the design problem showed, so the headline is the supplier's call, the dek says the card was issued and not charged, the call comes before the flow and the prototype, and the record answers the call before it schedules the follow-up. Until the second pass of 2026-11-06 the page also carried a six-lane service map, the states as static markup, a design-to-build check table, and the research plan in three columns; that pass took the figures, not the running text, which was already under budget. Independent and simulated, and the first screen says so |
 | `lab/aisle.{css,js}`, `prototype/aisle.html` | The Shortlist prototype, in the write-up's hero since 2026-10-29: one shopping trip at a phone's width, from a photo of a friend's lamp to a store aisle and a hand-off to a person, on sample data written at the top of the script. Shortlist is the feature's name in the app of the made-up store, Marigold Home. What the shopper liked about the lamp is asked once and carried through every later screen, and every screen is written from what the shopper did. No image search, inventory system, or model is connected, and the page says so in its first screen. Every screen after the first is drawn on a press, so `scripts/lib/reachable.mjs` registers fourteen states for it, and `scripts/aisle-test.mjs` walks every branch and asserts what each screen says. `scripts/aisle-shots.mjs` takes its screens for the lab index and the share card. It had a page of its own for a day; `prototype/aisle.html` is a forwarding note to the write-up now, which no check measures and `seo.mjs` holds to a noindex, a canonical, and a place outside the sitemap. An independent concept: the store is made up, and no retailer's name, mark, or colors appear |
 | `lab/inspiration-to-aisle.html`, `lab/inspiration-to-aisle.css`, `lab/inspiration-to-aisle.js` | The Shortlist, one page since 2026-10-29: the question and four facts, with the working prototype beside them in the hero, then the opportunity, with what retailers already ship (one linked source), one service map drawn in HTML so the checks read it (the journey and a simplified service blueprint on six shared moments, opening on three claims about what it shows, each naming its moments, with a Today/Connected switch and a moment to follow down, both lanes showing without script; under 64rem the moments sit in a row the reader swipes, their lanes lined up across all six, under `map-rail.js`'s discs), five decisions each with the guess under it, made in place of research, then the bet with the study that would test it, and a close on the twenty years of work it draws on. From 64rem the phone holds one height and its screen scrolls inside it, so a press never moves the map. Illustrative and conceptual material is labeled as such on the figure itself |
